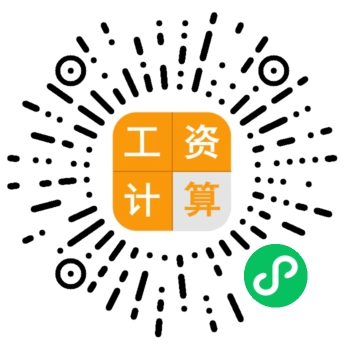
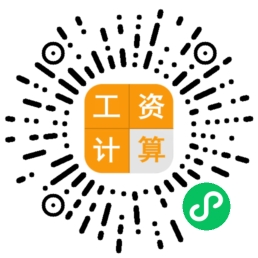
feat: 1

diff --git a/README.md b/README.md
@@ -294,4 +294,6 @@ salaryTax 12个月的个税数值
 
 后续依次类推
 
-![]()
+扫一扫小程序体验
+
+![](https://raw.githubusercontent.com/theajack/salary/master/helper/salary-mp.jpg)
